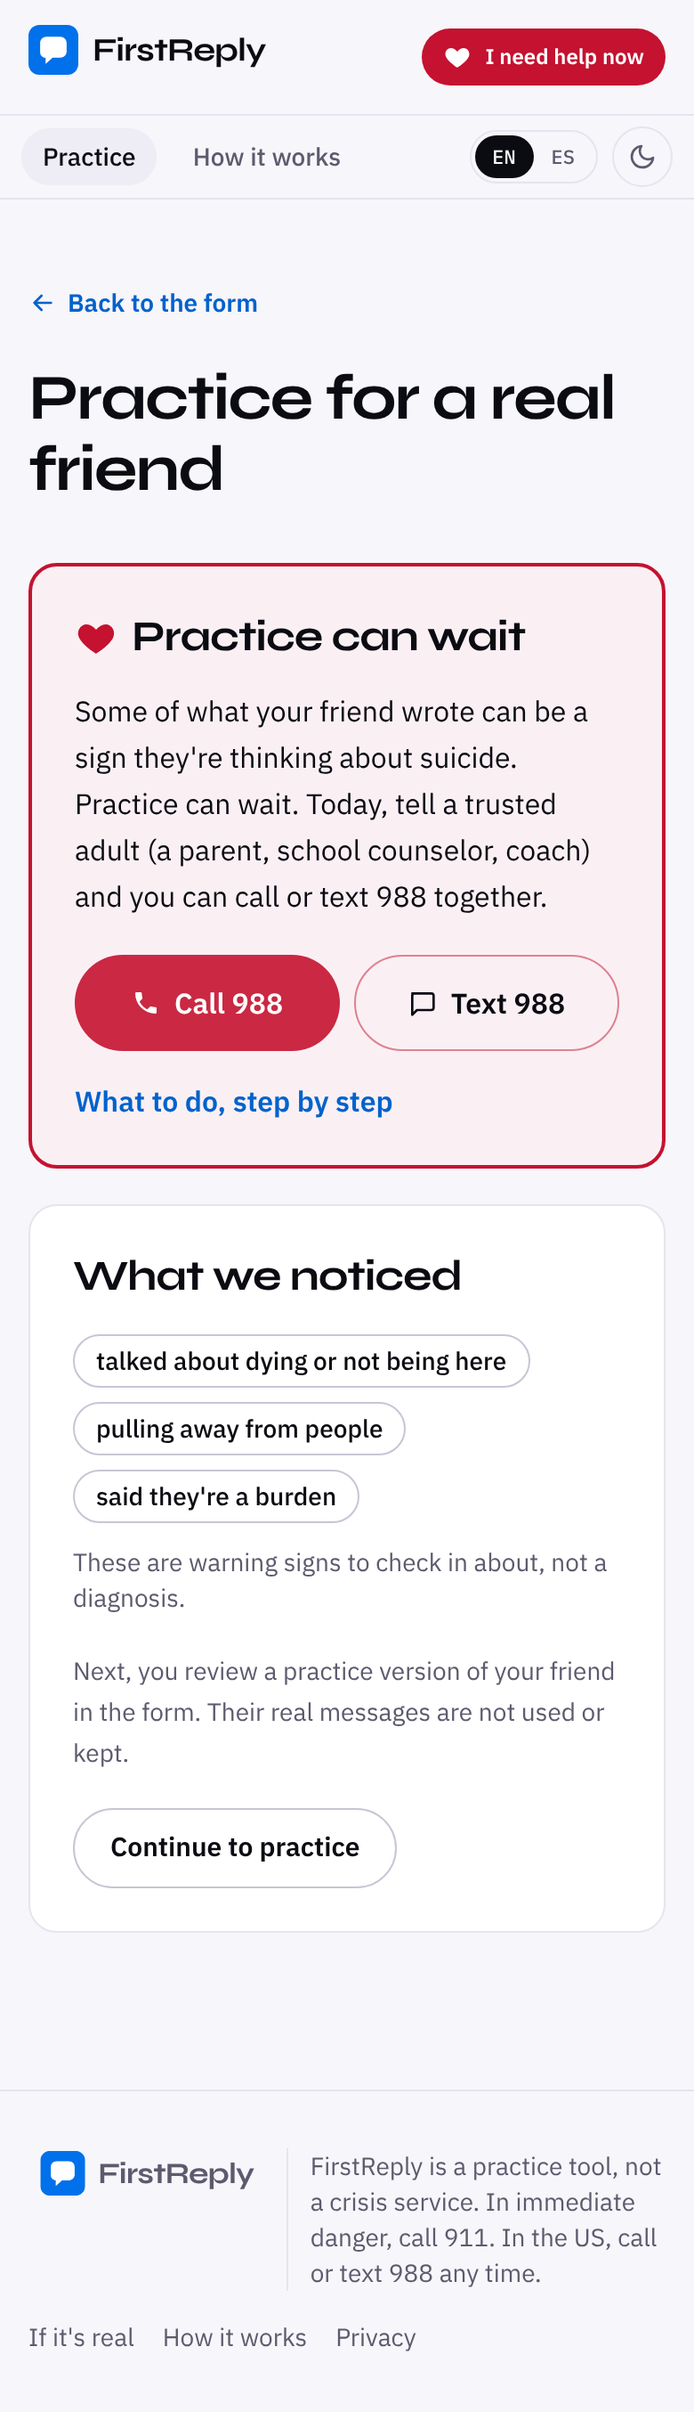
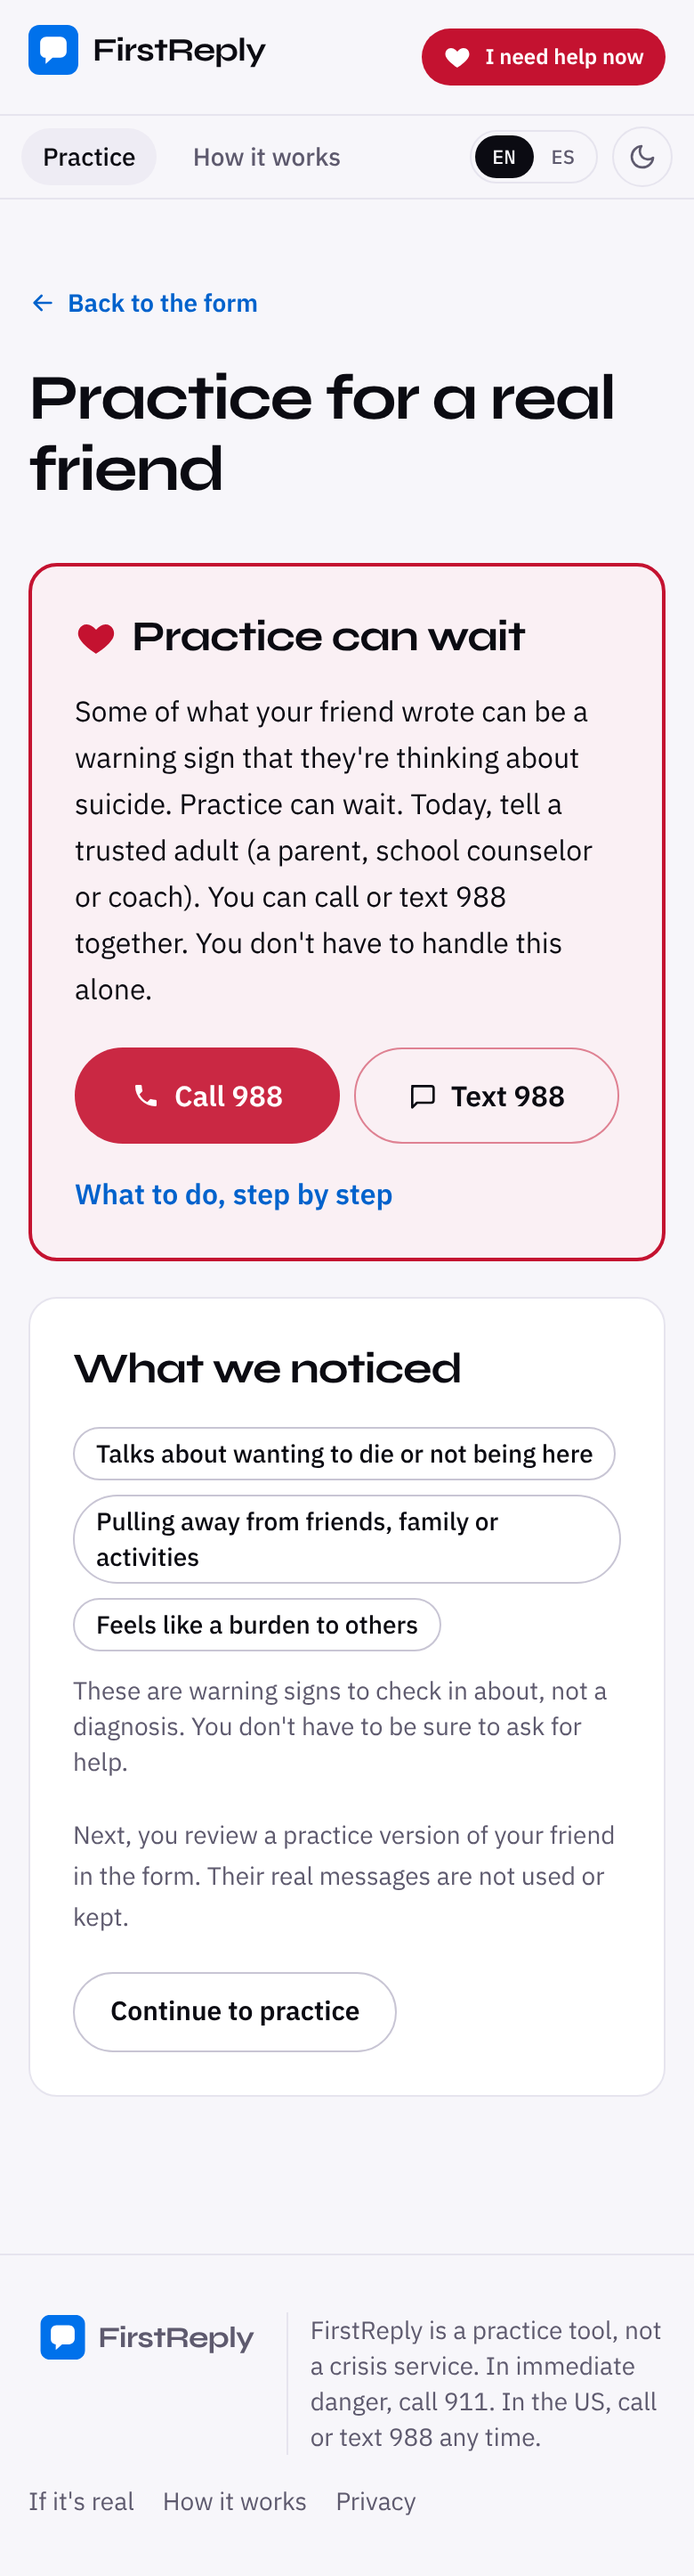
frontend: imminent card and the safety lane's reviewed copy in the screenshot flow
imminent: true shows a steady help-red card above the urgent card with the
country's emergency number from crisis_lines plus 988. Urgent, check-in,
the note under the signs and the 12 sign labels use the reviewed EN/ES
wording verbatim.

diff --git a/frontend/src/pages/RealFriend.tsx b/frontend/src/pages/RealFriend.tsx
@@ -15,6 +15,7 @@ import { RedactEditor } from '../components/RedactEditor';
 import { Call988 } from '../components/Safety';
 import { usePrefs } from '../i18n';
 import { EMPTY_DRAFT, LIMITS, useFriends } from '../lib/friends';
+import { offlineRealMode } from '../lib/realmode';
 import { loadImage, prepareScreenshot, type Box } from '../lib/redact';
 
 const MAX_IMAGES = 3;
@@ -220,16 +221,45 @@ export function RealFriend() {
   );
 }
 
-/** "What we noticed": real help comes FIRST (steady, help red) when urgency is tell_an_adult_now. */
+/**
+ * "What we noticed": real help comes FIRST, steady and in help red: the imminent card (call the
+ * country's emergency number or 988 now) above the urgent card (tell a trusted adult today), then the
+ * signs. Copy is the safety lane's reviewed wording (wt-notes/safety.md).
+ */
 export function Noticed({ result, onContinue, headingRef }: { result: AnalyzeResult; onContinue: () => void; headingRef?: RefObject<HTMLHeadingElement> }) {
-  const { t } = usePrefs();
+  const { t, lang, country } = usePrefs();
   const heading = headingRef;
   const toForm = () => onContinue();
+  // The country's emergency number from the bundled crisis_lines (same source as /api/realmode; works offline).
+  const emergency = offlineRealMode(lang, country).crisis.emergency || '911';
+  const dialable = /^\d+$/.test(emergency);
+  const urgent = result.urgency === 'tell_an_adult_now';
   return (
         <div className="mt-8 space-y-5">
-          {result.urgency === 'tell_an_adult_now' && (
+          {result.imminent && (
+            <section className="rounded-2xl border-2 border-warm bg-warm-soft p-6 sm:p-7" aria-labelledby="rf-imminent" data-testid="imminent-help">
+              <h2 id="rf-imminent" ref={heading} tabIndex={-1} className="flex items-center gap-2 text-2xl outline-none">
+                <Icon name="phone" className="h-6 w-6 shrink-0 text-warm" />
+                {t('real_friend.imminent_title')}
+              </h2>
+              <p className="mt-3 text-[17px] font-medium leading-relaxed">{t('real_friend.imminent_body', { emergency })}</p>
+              <div className="mt-5 grid max-w-md gap-2 sm:grid-cols-2">
+                {dialable && (
+                  <a href={`tel:${emergency}`} className="btn-warm py-3" data-testid="call-emergency">
+                    <Icon name="phone" className="h-4 w-4" />
+                    {t('real_friend.call_number', { number: emergency })}
+                  </a>
+                )}
+                <a href="tel:988" className={dialable ? 'btn-ghost border-warm/50 py-3' : 'btn-warm py-3'}>
+                  <Icon name="phone" className="h-4 w-4" />
+                  {t('chat.crisis.call')}
+                </a>
+              </div>
+            </section>
+          )}
+          {urgent && (
             <section className="rounded-2xl border-2 border-warm bg-warm-soft/40 p-6 sm:p-7" aria-labelledby="rf-urgent" data-testid="urgent-help">
-              <h2 id="rf-urgent" ref={heading} tabIndex={-1} className="flex items-center gap-2 text-2xl outline-none">
+              <h2 id="rf-urgent" ref={result.imminent ? undefined : heading} tabIndex={-1} className="flex items-center gap-2 text-2xl outline-none">
                 <Icon name="heart" className="h-6 w-6 shrink-0 text-warm" />
                 {t('real_friend.urgent_title')}
               </h2>
@@ -243,7 +273,7 @@ export function Noticed({ result, onContinue, headingRef }: { result: AnalyzeRes
             </section>
           )}
           <section className="card p-6 sm:p-7" aria-labelledby="rf-step" data-testid="noticed">
-            <h2 id="rf-step" ref={result.urgency === 'tell_an_adult_now' ? undefined : heading} tabIndex={-1} className="text-2xl outline-none">
+            <h2 id="rf-step" ref={urgent || result.imminent ? undefined : heading} tabIndex={-1} className="text-2xl outline-none">
               {t('real_friend.noticed_title')}
             </h2>
             {result.signs.length > 0 ? (
@@ -261,7 +291,7 @@ export function Noticed({ result, onContinue, headingRef }: { result: AnalyzeRes
               <p className="mt-3 text-muted">{t('real_friend.no_signs')}</p>
             )}
             {result.urgency === 'check_in_soon' && (
-              <p className="mt-4 font-medium" data-testid="check-in-soon">
+              <p className="mt-4 rounded-xl border border-line-strong p-4 leading-relaxed" data-testid="check-in-soon">
                 {t('real_friend.check_in_soon')}
               </p>
             )}
@@ -269,7 +299,7 @@ export function Noticed({ result, onContinue, headingRef }: { result: AnalyzeRes
             <div className="mt-5">
               <button
                 type="button"
-                className={result.urgency === 'tell_an_adult_now' ? 'btn-ghost' : 'btn-primary'}
+                className={urgent || result.imminent ? 'btn-ghost' : 'btn-primary'}
                 onClick={toForm}
                 data-testid="to-form"
               >

diff --git a/frontend/src/test/realfriend.test.tsx b/frontend/src/test/realfriend.test.tsx
@@ -17,7 +17,8 @@ const wrap = (ui: React.ReactNode) =>
     </PrefsProvider>,
   );
 
-const result = (urgency: AnalyzeResult['urgency'], signs: string[] = []): AnalyzeResult => ({
+const result = (urgency: AnalyzeResult['urgency'], signs: string[] = [], imminent = false): AnalyzeResult => ({
+  imminent,
   draft: { personality: 'dry humor', situation: 'Their parents are splitting up.', sample_texts: ['idk'], guardedness: 'guarded' },
   signs,
   urgency,
@@ -42,15 +43,27 @@ describe('Practice for a real friend', () => {
     expect(help.compareDocumentPosition(noticed) & Node.DOCUMENT_POSITION_FOLLOWING).toBeTruthy();
     expect(help).toHaveTextContent('Practice can wait');
     expect(help.querySelector('a[href="tel:988"]')).not.toBeNull();
-    expect(screen.getByTestId('signs')).toHaveTextContent('talked about dying or not being here');
-    expect(screen.getByText('These are warning signs to check in about, not a diagnosis.')).toBeInTheDocument();
+    expect(screen.getByTestId('signs')).toHaveTextContent('Talks about wanting to die or not being here');
+    expect(screen.queryByTestId('imminent-help')).not.toBeInTheDocument();
+    expect(screen.getByText("These are warning signs to check in about, not a diagnosis. You don't have to be sure to ask for help.")).toBeInTheDocument();
     expect(screen.getByTestId('to-form').className).toContain('btn-ghost'); // practice is the secondary action
   });
 
   it('shows a gentle check-in line and no help card for check_in_soon', () => {
     wrap(<Noticed result={result('check_in_soon', ['withdrawing'])} onContinue={() => undefined} />);
     expect(screen.queryByTestId('urgent-help')).not.toBeInTheDocument();
-    expect(screen.getByTestId('check-in-soon')).toHaveTextContent('It sounds like a good time to check in.');
+    expect(screen.getByTestId('check-in-soon')).toHaveTextContent('Check in with them soon, and think about which adult you could tell.');
+  });
+
+  it('puts the imminent card (emergency number or 988 now) above the urgent card', () => {
+    wrap(<Noticed result={result('tell_an_adult_now', ['saying_goodbye'], true)} onContinue={() => undefined} />);
+    const imminent = screen.getByTestId('imminent-help');
+    const urgent = screen.getByTestId('urgent-help');
+    expect(imminent.compareDocumentPosition(urgent) & Node.DOCUMENT_POSITION_FOLLOWING).toBeTruthy();
+    expect(imminent).toHaveTextContent('call 911 or 988 now');
+    expect(imminent).toHaveTextContent("Don't keep this a secret.");
+    expect(imminent.querySelector('a[href="tel:911"]')).not.toBeNull();
+    expect(imminent.querySelector('a[href="tel:988"]')).not.toBeNull();
   });
 
   it("passes the server's analyze error message through (needs_ai, unreadable…)", async () => {

diff --git a/frontend/src/api/client.ts b/frontend/src/api/client.ts
@@ -36,6 +36,8 @@ export interface AnalyzeResult {
   draft: { personality: string; situation: string; sample_texts: string[]; guardedness: 'open' | 'guarded' };
   signs: string[];
   urgency: 'none' | 'check_in_soon' | 'tell_an_adult_now';
+  /** The friend may act soon (a plan, a way, a time): show the emergency card above everything. */
+  imminent: boolean;
 }
 
 /** fetch + JSON with timeouts and readable errors (FastAPI puts messages in `detail`). */

diff --git a/docs/how/frontend.md b/docs/how/frontend.md
@@ -77,7 +77,7 @@ test/        vitest tests
 
 - **Why:** a teen who is worried about a real friend can practice for *that* conversation. They upload 1 to 3 screenshots of their chat, and the app sets up a practice version of the friend.
 - **Privacy first, in the browser:** before anything is sent, you draw black boxes over names and numbers (drag with a mouse or finger; or "Add box" and the arrow keys; or one tap on "Cover the top bar", where phones show the contact's name). The boxes are burned into the pixels on a canvas, the image is shrunk to at most 1280 px and saved again as a JPEG (which also removes hidden photo data like location), and only that copy is sent. The original file never leaves the device. Nothing is stored: the images are dropped from memory as soon as the reading is done.
-- **Safety first:** the server says how urgent it looks. If the friend's own words can be a sign of suicide, a steady red card comes first: "Practice can wait. Today, tell a trusted adult… call or text 988 together", with Call/Text 988. Warning signs are shown as plain chips ("pulling away from people") with "These are warning signs to check in about, not a diagnosis."
+- **Safety first:** the server says how urgent it looks. If the friend might act soon (a plan, a way, a time), an even stronger card comes above everything: call the local emergency number (from our crisis-lines file, so it's right for each country) or 988 now, stay with them if it's safe, and don't keep it a secret. All of this wording was reviewed by our safety lane. If the friend's own words can be a sign of suicide, a steady red card comes first: "Practice can wait. Today, tell a trusted adult… call or text 988 together", with Call/Text 988. Warning signs are shown as plain chips ("pulling away from people") with "These are warning signs to check in about, not a diagnosis."
 - **You stay in charge:** the AI's draft only fills in the normal "Add your own friend" form. The name stays empty ("Use a nickname"), you edit everything, and the same safety checks run when you create the friend. The chat is labelled "Practicing for a real friend". If the AI isn't available, the app says so and you fill in the form yourself.
 - **Deleting:** your friend's card and the chat both have "Delete". It asks first ("This ends your practice chats with them. Nothing is kept."), then the server deletes the friend and every chat with it.
 - **Checked:** unit tests check that pixels under a box really are black in the exported image, the 1280 px and 1.5 MB limits, the consent gate, that real help comes before the form, the error messages and the delete flow. `npm run test:real-friend` runs the whole flow in a browser: each urgency level (with a stand-in for the AI), keyboard-only redaction, a finger drag on mobile, both themes, axe with 0 problems, and one pass against the real backend with the AI off.

diff --git a/wt-notes/frontend.md b/wt-notes/frontend.md
@@ -47,6 +47,7 @@
 - **Calm motion + batch-1 review fixes**: opening sequence (star canvas in dark / dawn wash in light, 5.5 s breathing light behind the phone, headline rising line by line, phone rising with typing dots then Maya's first texts, CTAs last), scroll moments (1-in-5 figure lights up, step snippets animate to real values, annotated rows fade in), reduced motion = static final state (delays zeroed too). Fixes: same big headline in both themes, "1 in 5" digits in Plex Sans (Syne's 1 looked like "ı"), calm help red #D63A40 with white text in dark, help UI never animates, annotated conversation shows 4 rows then an aria-expanded "See the whole conversation". Lighthouse mobile perf 90 on the landing (LCP 2.7 s, CLS 0.016). Intro frames in `screenshots/brand/intro/` via `npm run screenshots:intro`.
 - **What-if "Best" made explainable**: each path shows how many of your messages it took ("in 3 messages") and, when it differs, how many levels she opened up; a line under the title says "Best = the most trust and openness in the fewest messages." (matches backend path_value; ranking unchanged). The chart legend follows the cards' order without numbers. Vitest covers it.
 - **Delete custom friends + Practice for a real friend** (backend bdcb3a7, merged): "Delete" on the custom friend card and in the chat (calm confirm, DELETE /api/friends/{id}, back to /practice). /practice/real: explain + consent → pick 1–3 images → redaction editor (drag/touch, Add box + arrows/Shift+arrows/Delete, Cover the top bar, Undo, Clear; every image needs ≥1 box) → flatten + downscale ≤1280 px + JPEG 0.82 stepping down under 1.5 MB in the browser (lib/redact) → POST /friends/analyze (progress, error message + "Fill it in myself") → "What we noticed" (real-help card first and static for tell_an_adult_now; sign chips; check-in line) → pre-filled form (name empty, "Use a nickname") → chat chip "Practicing for a real friend". Images/data URLs only in React state, dropped after analysis or on leave. Tests: 10 new vitest; `npm run test:real-friend` (mocked urgencies + pixel checks on the upload, keyboard + touch redaction, axe 0, real-backend needs_ai pass, card delete). Primary button hover now goes darker (AA on hover). Screenshots in `screenshots/brand/real-friend/`.
+- **Screenshot flow, safety-lane copy + imminent** (backend 349e089, merged): `imminent: true` shows a steady help-red card ABOVE the urgent card with the country's emergency number from the bundled crisis_lines (same source as /api/realmode; 911 for US) plus Call 988. Urgent, check-in-soon, the note under the signs and all 12 sign labels now use the safety lane's reviewed EN/ES wording verbatim (wt-notes/safety.md). vitest + E2E cover imminent ordering, numbers and no animation.
 
 ## In progress
 - Nothing. Lane is feature-complete against the stubs.
